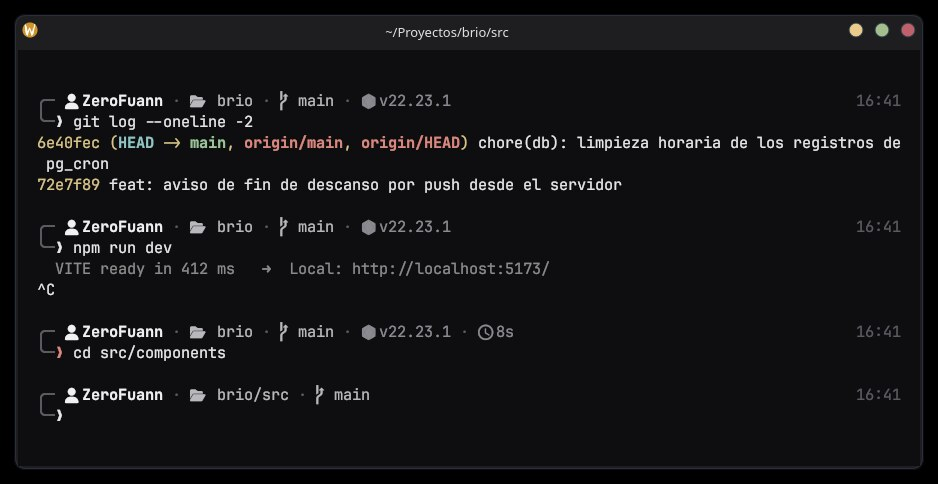
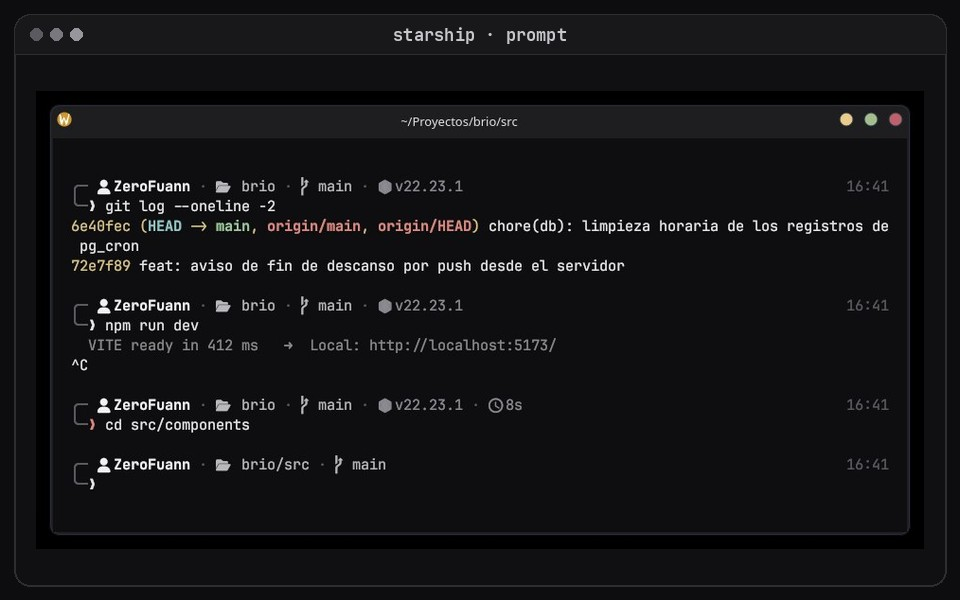
docs: README más ordenado con capturas en tarjetas del mismo tamaño
Capturas rehechas como ventanas Carbon de 960x600 con el comando en la
barra, galerías en cuadrícula de 2 columnas, insignias, índice y sección
para personalizar.

Changed region(s): [[0.0, 0.0, 0.9893, 0.9917], [0.0309, 0.6508, 0.5565, 0.8678]]

diff --git a/README.md b/README.md
@@ -1,75 +1,24 @@
 <div align="center">
 
-<img src="img/z-trazo.gif" width="120" alt="Logo Z animado">
+<img src="img/z-trazo.gif" width="110" alt="Logo Z animado">
 
-# dotfiles · Terminal Carbon
+# Terminal Carbon
 
-**Mi terminal en Fedora + KDE Plasma: kitty en grises, herramientas modernas y scripts propios para trabajar y para lucirse.**
+**Mi terminal en Fedora + KDE Plasma: kitty en escala de grises, herramientas modernas<br>y scripts propios en Python para trabajar y para lucirse.**
 
-kitty · bash · starship · fastfetch · Python
+![Fedora](https://img.shields.io/badge/Fedora-45-1e1e20?style=flat-square&logo=fedora&logoColor=e6e6e8)
+![KDE Plasma](https://img.shields.io/badge/KDE_Plasma-6-1e1e20?style=flat-square&logo=kde&logoColor=e6e6e8)
+![kitty](https://img.shields.io/badge/kitty-terminal-1e1e20?style=flat-square&logo=gnometerminal&logoColor=e6e6e8)
+![Python](https://img.shields.io/badge/Python-3-1e1e20?style=flat-square&logo=python&logoColor=e6e6e8)
+![Licencia MIT](https://img.shields.io/badge/licencia-MIT-1e1e20?style=flat-square)
+
+[Instalar](#instalar) · [Para trabajar](#para-trabajar) · [Para lucirse](#para-lucirse) · [Personalizar](#personalizar) · [Estructura](#estructura)
+
+<br>
+
+<img src="img/abrir.jpg" width="820" alt="Al abrir kitty: fastfetch con el logo Z y la información del equipo">
 
 </div>
-
-<p align="center"><img src="img/abrir.jpg" width="720" alt="Al abrir kitty: fastfetch con el logo Z y la información del equipo"></p>
-
-## Qué trae
-
-Todo sigue el mismo estilo **Carbon**: fondo casi negro, texto en escala de grises, sin colores chillones. Los scripts de `bin/` los escribí yo en Python, sin dependencias raras (solo `personaje` usa Pillow).
-
-### Para trabajar
-
-| Comando | Qué hace |
-|---|---|
-| prompt | starship estilo árbol: usuario, carpeta, rama de git, versión de Node, duración y hora |
-| `ls` · `ll` · `la` · `lt` | eza en gris con líneas de árbol, git y fechas relativas |
-| `z brio` · `zi` | zoxide: salta a la carpeta más usada que coincida |
-| Ctrl+R · Ctrl+T · Alt+C | fzf: historial, archivos y carpetas con vista previa (bat / eza) |
-| `top` | btop con tema Carbon |
-| `gg` | lazygit; fuera de un repo te deja elegir proyecto con fzf |
-| `y` | yazi; al salir te deja en la carpeta donde ibas |
-| Meta+Enter | kitty que baja desde arriba (quick-access-terminal) |
-| Ctrl+Shift+D / B | dividir a la derecha / abajo; Alt+flechas para moverte |
-| aviso | notificación de KDE cuando un comando de más de 15 s acaba y estás en otra ventana |
-| `musica` | spotify_player con tema Carbon |
-| `clima` | pronóstico de wttr.in en ASCII, pasado a grises (`clima hoy`, `clima corto`, `clima luna`) |
-| `reloj` | hora gigante, `reloj crono` y `reloj 25m` (temporizador con notificación y sonido) |
-| `frase` | frase del día al abrir kitty (código, motivación, MCU, manga, Barça…) |
-
-<p align="center">
-<img src="img/prompt.jpg" width="49%" alt="Prompt de starship estilo árbol">
-<img src="img/fzf.jpg" width="49%" alt="fzf buscando archivos con vista previa">
-</p>
-<p align="center">
-<img src="img/reloj.jpg" width="49%" alt="Reloj gigante y temporizador">
-<img src="img/frase.jpg" width="49%" alt="Frase del día debajo de fastfetch">
-</p>
-
-### Para lucirse
-
-| Comando | Qué hace |
-|---|---|
-| `apurale <comando>` | Un látigo en braille con física y sonido que da latigazos mientras corre tu comando; al final te dice cuánto tardó |
-| `ondas` | cava: barras que bailan con lo que suene |
-| `lluvia` | Lluvia tipo Matrix en grises, con mensajes escondidos (`lluvia -z`) |
-| `acuario` | Acuario propio: peces, burbujas, algas, castillo, barco y un tiburón que se come peces |
-| `fuego` | Fogata animada en gris o a colores (`fuego -c`) |
-| `poke` | Pokémon con [pokeget](https://github.com/talwat/pokeget-rs): a colores, en gris y el juego `poke quien` |
-| `personaje` | Cualquier imagen tuya de `~/Imágenes/terminal/` en pixel art, en gris o real; incluye `personaje quien` |
-
-<p align="center">
-<img src="img/apurale.jpg" width="49%" alt="El látigo de apurale en tres cuadros">
-<img src="img/lluvia.jpg" width="49%" alt="Lluvia Matrix en grises">
-</p>
-<p align="center">
-<img src="img/acuario.jpg" width="49%" alt="Acuario con barco, peces y tiburón">
-<img src="img/fuego.jpg" width="49%" alt="Fogata en gris y a colores">
-</p>
-<p align="center">
-<img src="img/cava.jpg" width="49%" alt="Barras de cava en grises">
-<img src="img/personaje.jpg" width="49%" alt="Un muñeco de prueba en pixel art, en gris y real">
-</p>
-
-Todos los scripts traen ayuda: `apurale -h`, `reloj -h`, `personaje -h`…
 
 ## Instalar
 
@@ -79,31 +28,107 @@ cd dotfiles
 ./instalar.sh
 ```
 
-- Copia todo a su lugar (`~/.config`, `~/.local/bin`, `~/.bashrc.d`) y **respalda** lo que ya tengas como `*.antes-dotfiles`.
-- No usa `sudo`: al final te dice qué programas te faltan y el comando para instalarlos.
-- Tus datos personales van en `~/.bashrc.d/00-privado.sh`, que no forma parte del repo:
+1. Copia todo a su lugar: `~/.config`, `~/.local/bin` y `~/.bashrc.d`.
+2. Lo que ya tengas lo **respalda** como `archivo.antes-dotfiles` antes de reemplazarlo.
+3. No usa `sudo`: al final te dice qué programas te faltan y el comando para instalarlos.
+4. Abre una kitty nueva y listo.
+
+> **Requisitos:** kitty reciente, la fuente JetBrains Mono, Python 3 y PipeWire (`pw-play`) para los sonidos. Probado en Fedora 45 con KDE Plasma 6.
+
+## Para trabajar
+
+| Comando | Qué hace |
+|---|---|
+| **prompt** | starship estilo árbol: usuario, carpeta, rama de git, Node, duración y hora |
+| `ls` · `ll` · `la` · `lt` | eza en gris con líneas de árbol, estado de git y fechas relativas |
+| `z <algo>` · `zi` | zoxide: salta a la carpeta más usada que coincida |
+| `Ctrl+R` · `Ctrl+T` · `Alt+C` | fzf: historial, archivos y carpetas con vista previa |
+| `top` | btop con tema Carbon |
+| `gg` | lazygit; fuera de un repo eliges el proyecto con fzf |
+| `y` | yazi; al salir te deja en la carpeta donde ibas |
+| `Meta+Enter` | kitty que baja desde arriba de la pantalla |
+| `Ctrl+Shift+D` · `Ctrl+Shift+B` | dividir a la derecha o abajo; `Alt+flechas` para moverte |
+| *automático* | notificación de KDE cuando un comando de más de 15 s acaba y estás en otra ventana |
+| `musica` | Spotify en la terminal (spotify_player, necesita Premium) |
+| `clima` | pronóstico de wttr.in en ASCII pasado a grises · `clima hoy` · `clima corto` · `clima luna` |
+| `reloj` | hora gigante · `reloj crono` · `reloj 25m` temporizador con aviso y sonido |
+| `frase` | frase del día al abrir kitty · `frase otra` · `frase barca` · `frase + "tuya"` |
+
+<table>
+  <tr>
+    <td width="50%"><img src="img/prompt.jpg" alt="Prompt de starship estilo árbol"></td>
+    <td width="50%"><img src="img/fzf.jpg" alt="fzf buscando archivos con vista previa"></td>
+  </tr>
+  <tr>
+    <td width="50%"><img src="img/ll.jpg" alt="ll con eza: árbol, tamaños y fechas"></td>
+    <td width="50%"><img src="img/reloj.jpg" alt="Reloj gigante y temporizador al terminar"></td>
+  </tr>
+</table>
+
+## Para lucirse
+
+| Comando | Qué hace |
+|---|---|
+| `apurale <comando>` | Un látigo en braille con física y sonido que da latigazos mientras corre tu comando; al final te dice cuánto tardó |
+| `lluvia` | Lluvia tipo Matrix en grises · `lluvia -z` con mensajes escondidos |
+| `acuario` | Peces, burbujas, algas, castillo, barco y un tiburón que se come peces · `Espacio` echa más |
+| `fuego` | Fogata animada en gris · `fuego -c` a colores · `←` `→` viento |
+| `ondas` | cava: barras que bailan con lo que suene |
+| `poke` | Pokémon con [pokeget](https://github.com/talwat/pokeget-rs) · `poke gris` · `poke quien` para adivinar |
+| `personaje` | Cualquier imagen tuya en pixel art, en gris o real · `personaje quien` para adivinar |
+
+<table>
+  <tr>
+    <td width="50%"><img src="img/apurale.jpg" alt="El látigo de apurale en tres cuadros"></td>
+    <td width="50%"><img src="img/lluvia.jpg" alt="Lluvia Matrix en grises"></td>
+  </tr>
+  <tr>
+    <td width="50%"><img src="img/acuario.jpg" alt="Acuario con barco, peces y tiburón"></td>
+    <td width="50%"><img src="img/fuego.jpg" alt="Fogata en gris y a colores"></td>
+  </tr>
+  <tr>
+    <td width="50%"><img src="img/cava.jpg" alt="Barras de cava en grises"></td>
+    <td width="50%"><img src="img/personaje.jpg" alt="Un muñeco de prueba en pixel art, en gris y como imagen real"></td>
+  </tr>
+</table>
+
+Todos los scripts traen ayuda: `apurale -h`, `reloj -h`, `personaje -h`…
+
+## Personalizar
+
+Tus datos personales van en `~/.bashrc.d/00-privado.sh`. El instalador lo crea vacío y no forma parte del repo:
 
 ```bash
 export CLIMA_CIUDAD="Tu ciudad"   # vacío = wttr.in la detecta por tu IP
-export MASCOTA="nombre"           # imagen de ~/Imágenes/terminal que sale chiquita al abrir kitty
+export MASCOTA="nombre"           # imagen que sale chiquita junto a la frase al abrir kitty
 ```
 
-**Requisitos:** kitty reciente (la terminal desplegable usa `kitten quick-access-terminal`), la fuente JetBrains Mono, Python 3 y, para el látigo, PipeWire (`pw-play`). Probado en Fedora 45 con KDE Plasma 6.
+- **Personajes:** pon tus imágenes en `~/Imágenes/terminal/` (subcarpetas `anime/`, `marvel/`, `otros/`…). El nombre del archivo es el del personaje: `mi-perro.png` sale como «Mi Perro».
+- **Frases:** edita `~/.local/share/frases/frases.txt` (una por línea: `tema|frase|autor`) o usa `frase + "texto — autor"`.
+- **Colores:** el tema vive en `kitty/carbon.conf`; los demás programas usan los mismos grises.
+
+<p align="center"><img src="img/frase.jpg" width="640" alt="Frase del día debajo de fastfetch"></p>
 
 ## Estructura
 
 ```
-bin/       scripts (apurale, lluvia, acuario, fuego, reloj, clima, frase, poke, personaje, zfetch…)
-bash/      alias y funciones (~/.bashrc.d)
-kitty/     kitty.conf, tema carbon.conf y la terminal desplegable
-config/    starship, fastfetch, btop, lazygit, yazi, cava, spotify_player
-share/     frases, sonido del látigo, lanzador de la terminal desplegable
+dotfiles/
+├── bin/        scripts: apurale, lluvia, acuario, fuego, reloj, clima, frase, poke, personaje, zfetch
+├── bash/       alias y funciones para ~/.bashrc.d
+├── kitty/      kitty.conf, tema carbon.conf y la terminal desplegable
+├── config/     starship, fastfetch, btop, lazygit, yazi, cava, spotify_player
+├── share/      frases, sonido del látigo y lanzador de la terminal desplegable
+└── instalar.sh
 ```
 
 ## Créditos
 
-Inspirado en proyectos como badclaude y OpenWhip (el látigo), cmatrix, asciiquarium y tty-clock. El código de `bin/` es propio. Los sprites de Pokémon los dibuja pokeget y no vienen en este repo.
+Ideas inspiradas en cmatrix, asciiquarium, tty-clock y en los "látigos para la terminal" (badclaude, OpenWhip). El código de `bin/` es propio. Los sprites de Pokémon los dibuja pokeget y no vienen en este repo.
 
-## Licencia
+<div align="center">
 
-[MIT](LICENSE) © ZeroFuann
+<br>
+
+[MIT](LICENSE) · hecho por **ZeroFuann**
+
+</div>
